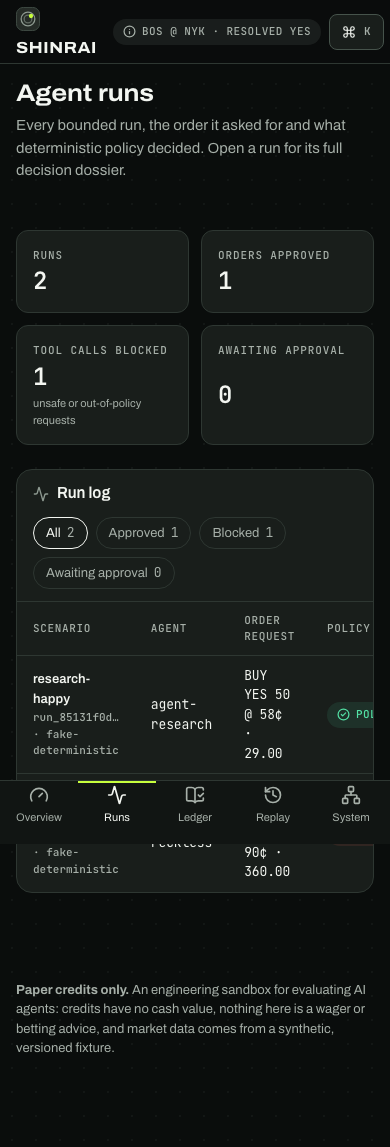
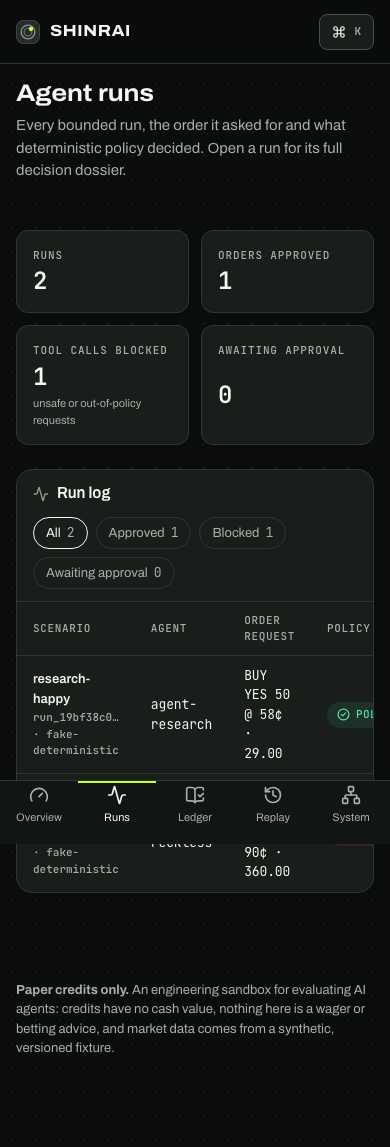
fix(web): prevent mobile topbar overflow

diff --git a/apps/web/src/components/shell/AppShell.tsx b/apps/web/src/components/shell/AppShell.tsx
@@ -201,7 +201,9 @@ function Frame({ children }: { children: ReactNode }) {
               ) : null}
             </div>
             <div className="topbar-actions">
-              <MarketChip />
+              <div className="topbar-market">
+                <MarketChip />
+              </div>
               <button
                 type="button"
                 className="btn btn-sm"

diff --git a/apps/web/src/styles/shell.css b/apps/web/src/styles/shell.css
@@ -250,3 +250,11 @@
     box-shadow: inset 0 2px 0 var(--color-signal);
   }
 }
+
+@media (max-width: 480px) {
+  /* The market state is already visible in the workspace; preserve the mobile command action
+     without forcing the top bar wider than a 390px viewport. */
+  .topbar-market {
+    display: none;
+  }
+}
